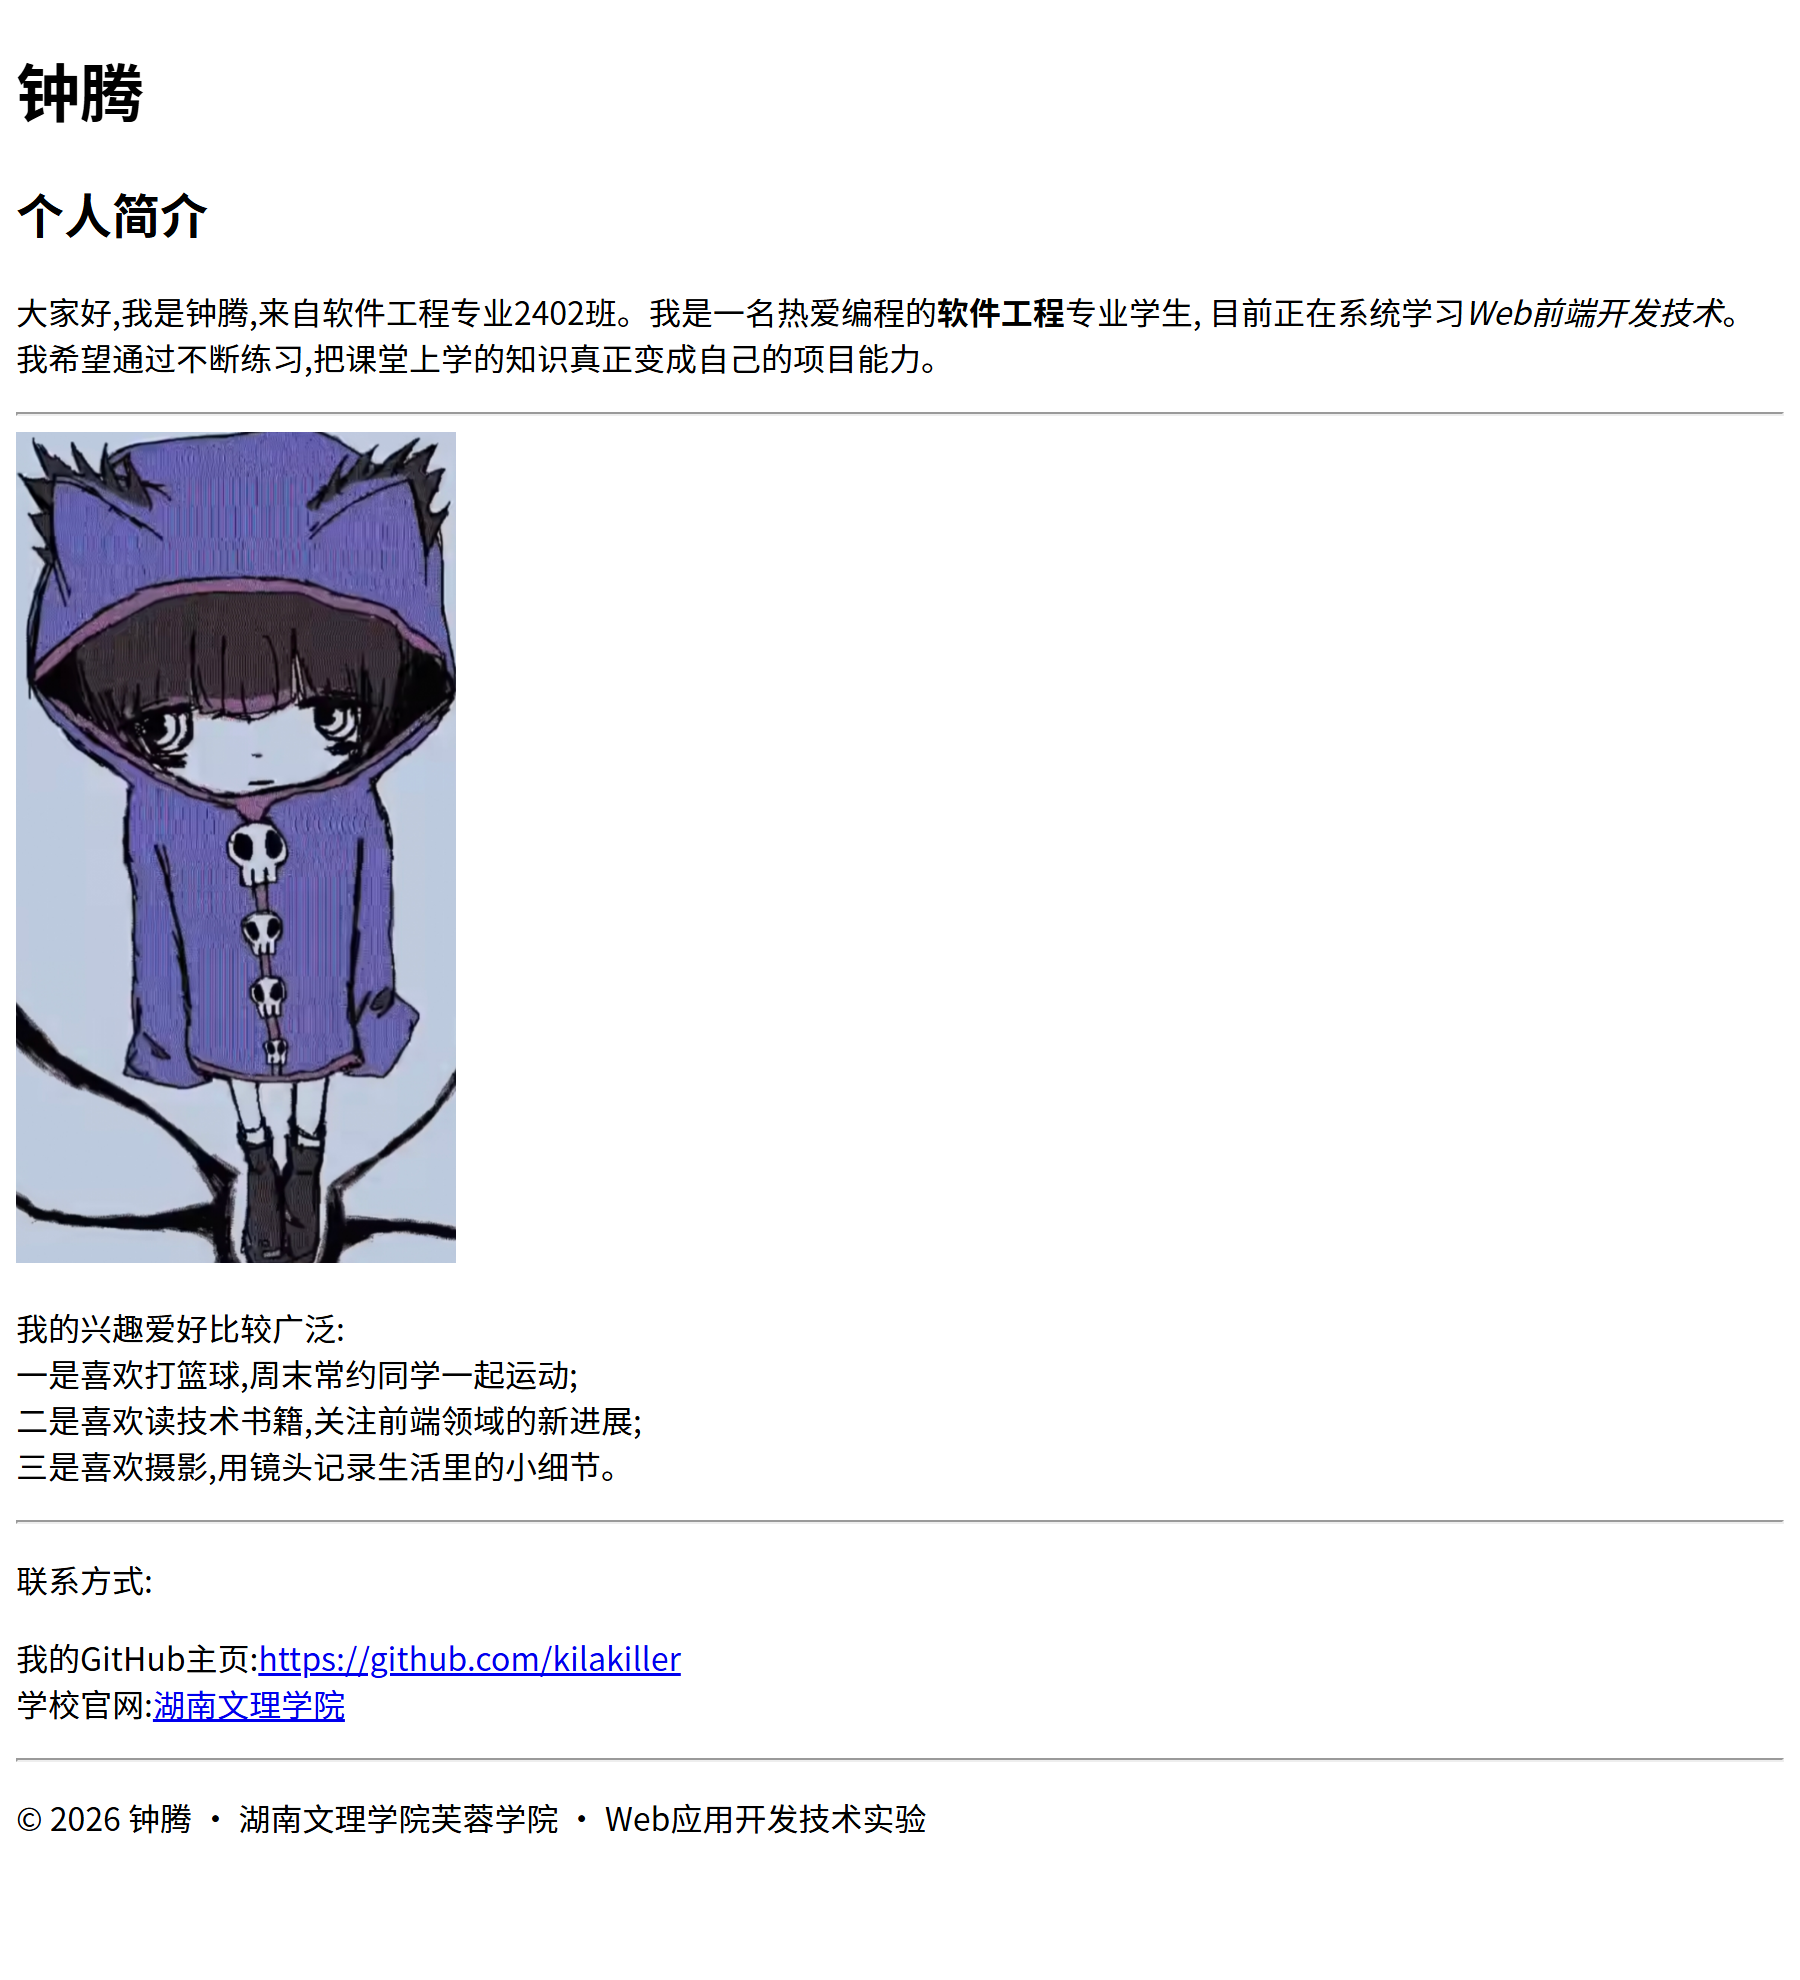
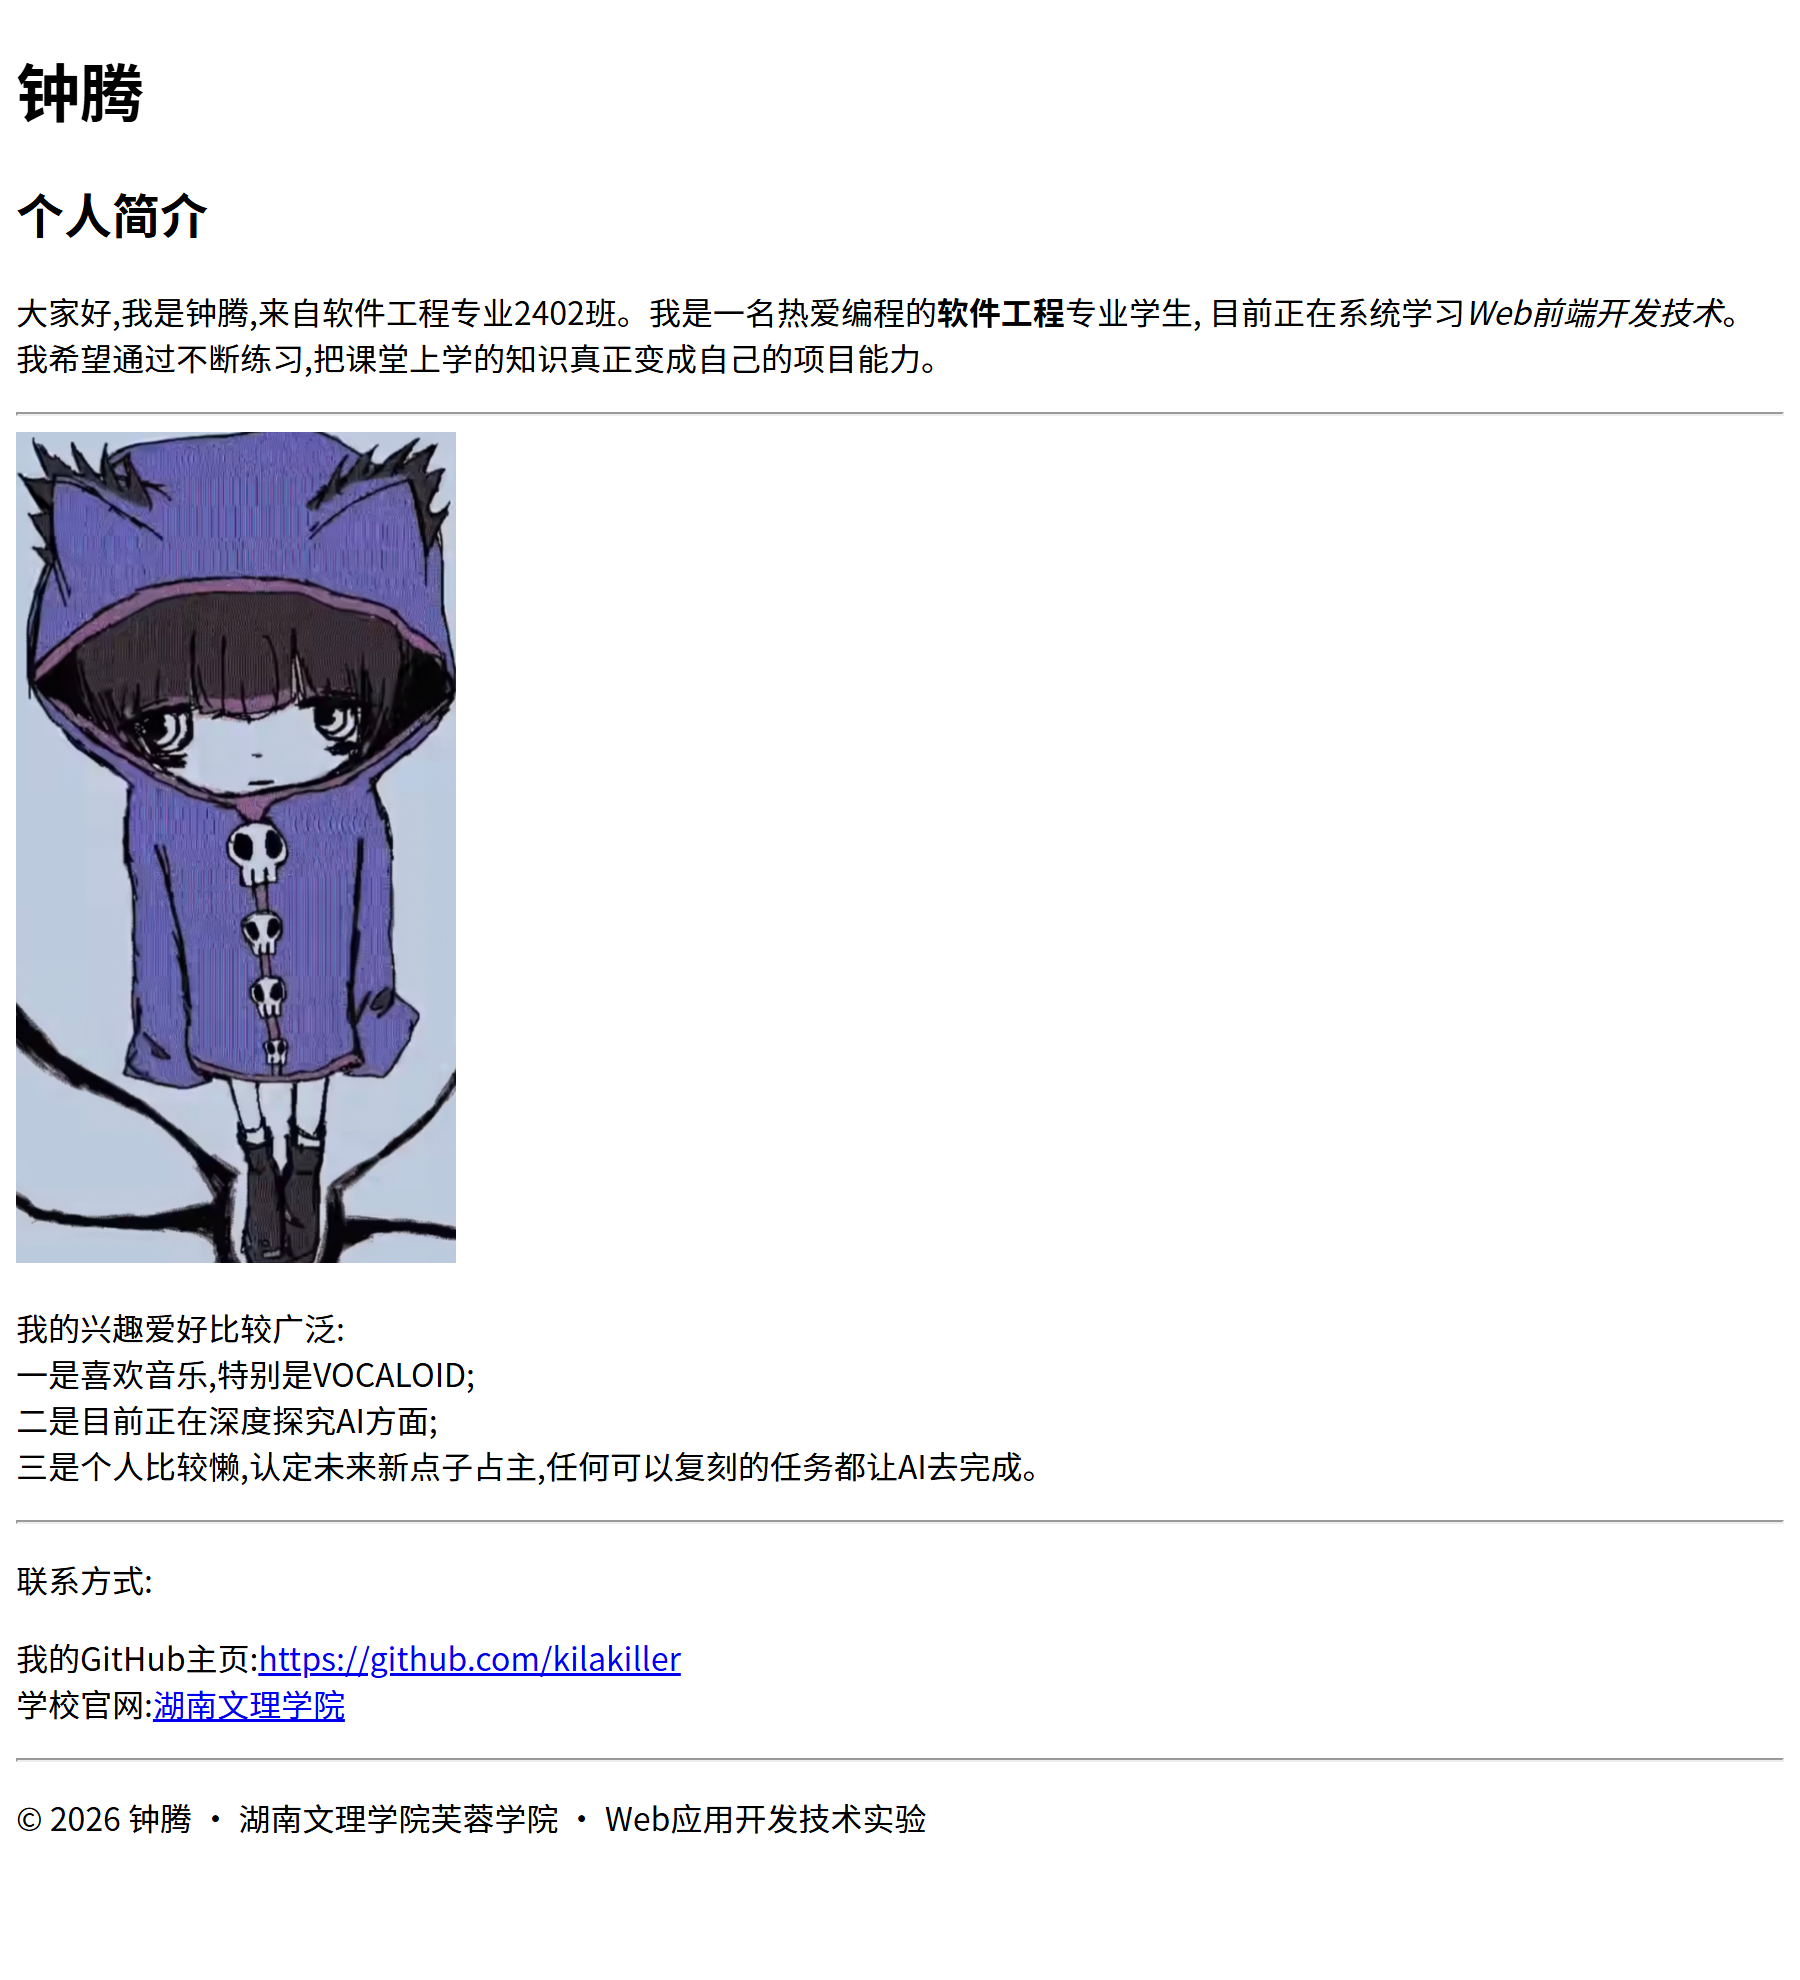
修改兴趣爱好内容

Changed region(s): [[0.0311, 0.6778, 0.56, 0.7702]]

diff --git a/index.html b/index.html
@@ -23,9 +23,9 @@
 
     <p>
         我的兴趣爱好比较广泛:<br>
-        一是喜欢打篮球,周末常约同学一起运动;<br>
-        二是喜欢读技术书籍,关注前端领域的新进展;<br>
-        三是喜欢摄影,用镜头记录生活里的小细节。
+        一是喜欢音乐,特别是VOCALOID;<br>
+        二是目前正在深度探究AI方面;<br>
+        三是个人比较懒,认定未来新点子占主,任何可以复刻的任务都让AI去完成。
     </p>
 
     <hr>
